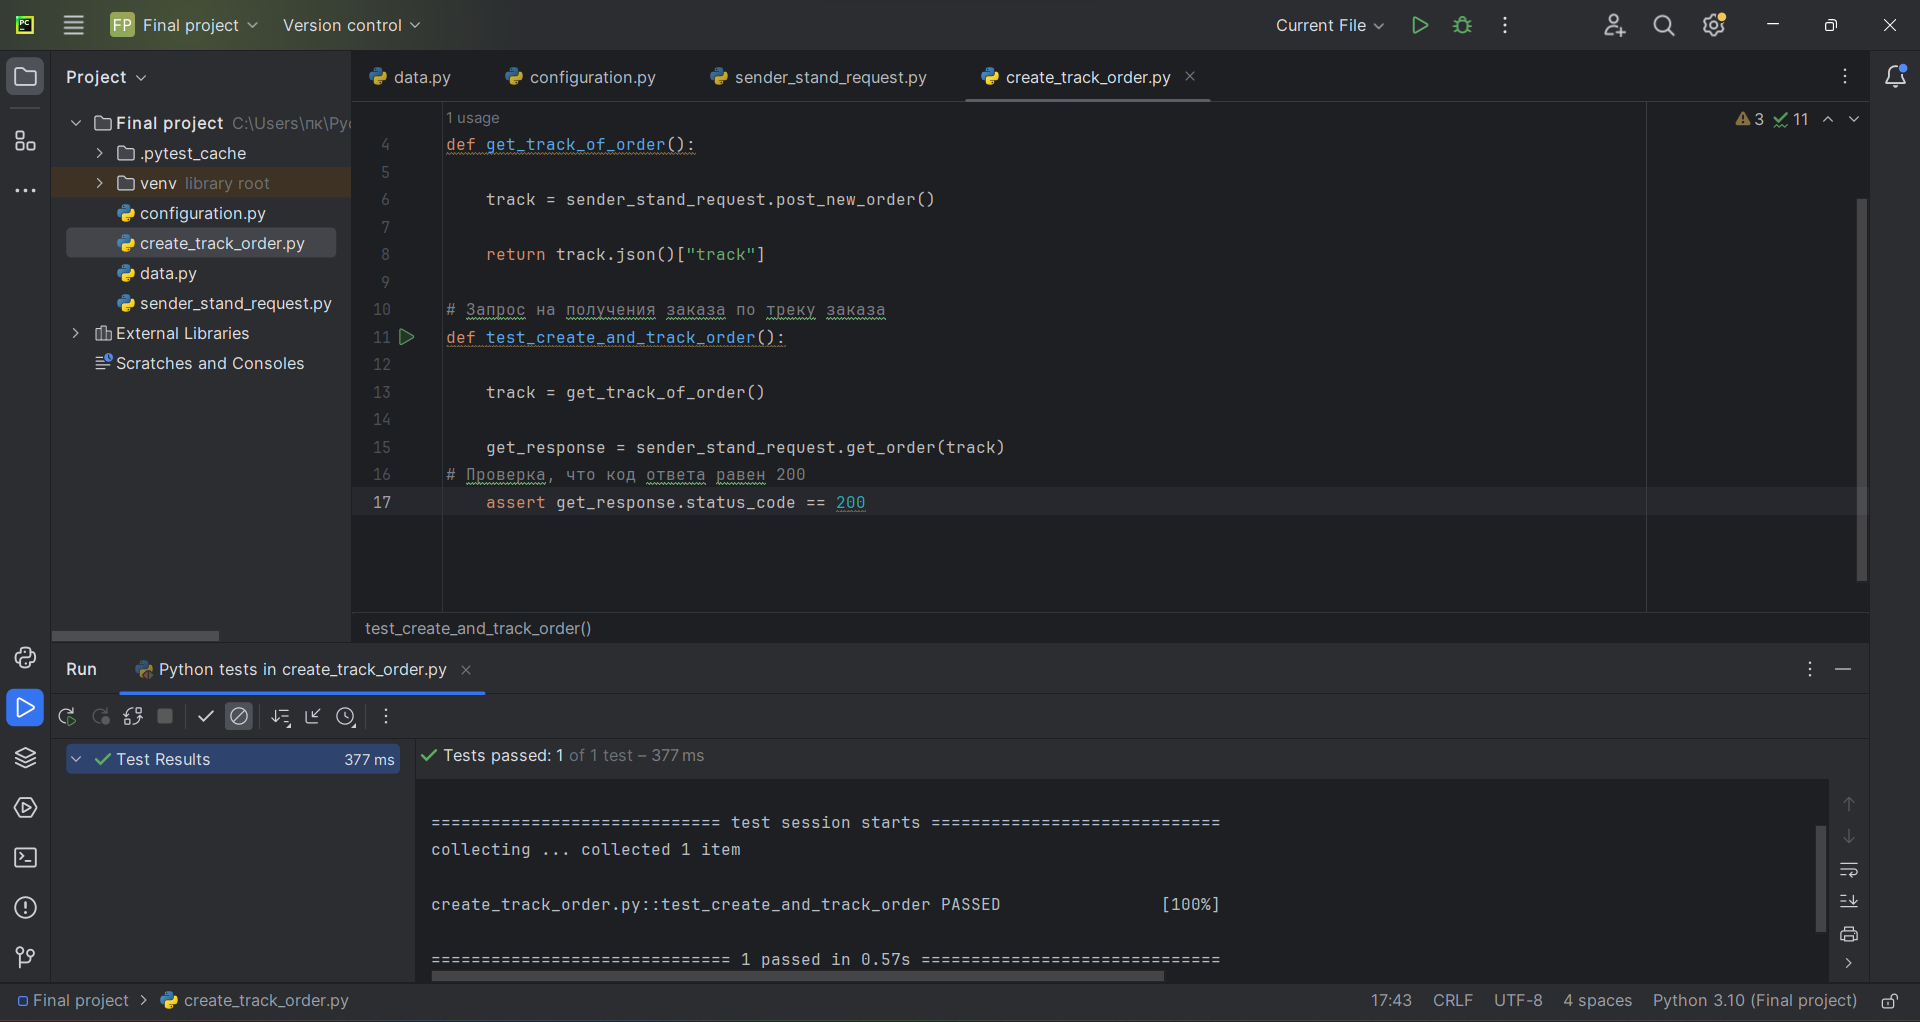
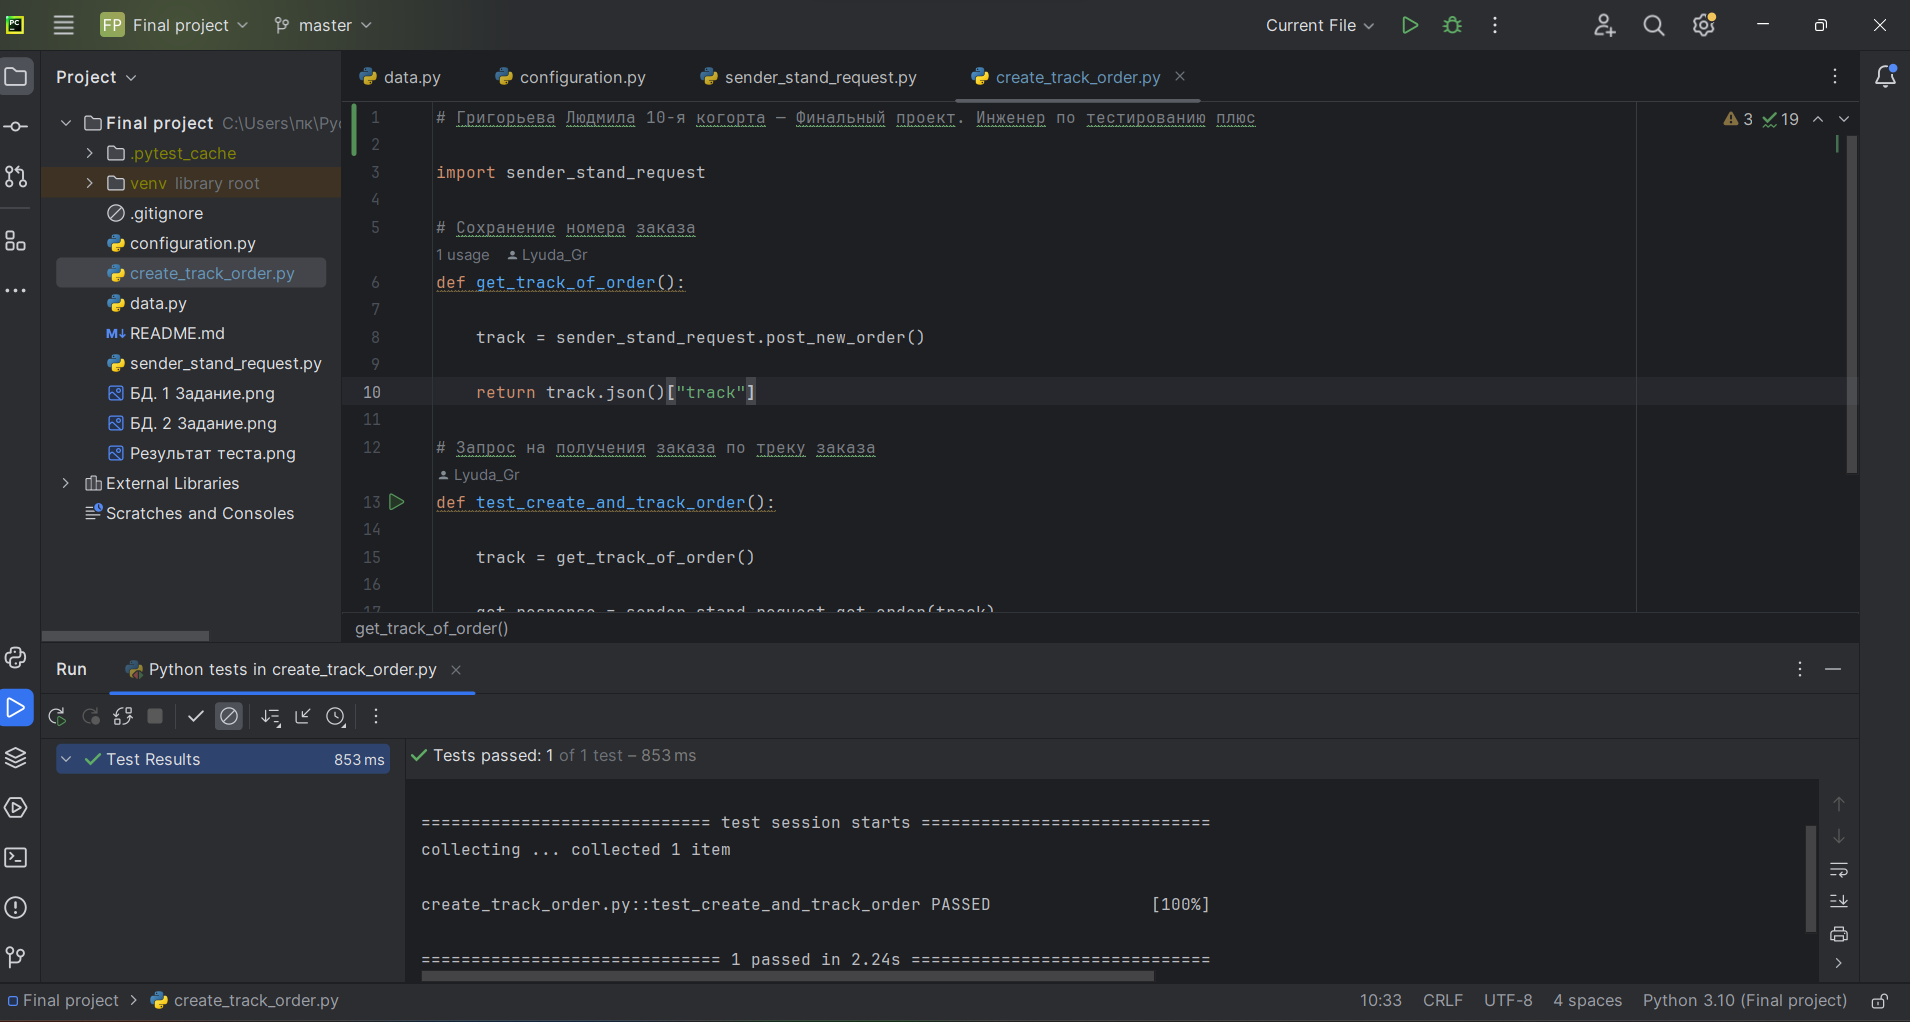
My commit

diff --git a/create_track_order.py b/create_track_order.py
@@ -1,3 +1,5 @@
+# Григорьева Людмила 10-я когорта — Финальный проект. Инженер по тестированию плюс
+
 import sender_stand_request
 
 # Сохранение номера заказа
@@ -7,7 +9,7 @@ def get_track_of_order():
 
     return track.json()["track"]
 
-# Запрос на получения заказа по треку заказа
+# Запрос на получение заказа по треку заказа
 def test_create_and_track_order():
 
     track = get_track_of_order()

diff --git a/configuration.py b/configuration.py
@@ -2,5 +2,5 @@
 URL_SERVICE = "https://59643f91-3200-42ed-b3be-b091685c08e2.serverhub.praktikum-services.ru"
 # Ручка к созданию заказа
 CREATE_TRACK_ORDER = "/api/v1/orders"
-# Ручка к получение номера заказа
+# Ручка к получению номера заказа
 GET_ORDER = "/api/v1/orders/track"

diff --git a/README.md b/README.md
@@ -1,4 +1,5 @@
-# Тесты на проверку параметра name в поле запроса на создание набора с продуктами для авторизованного пользователя в Яндекс.Прилавке с помощью API Яндекс.Прилавок.
+Тесты на проверку создания заказа клиентом и нахождение заказ по его номеру с помощью API Яндекс.Самокат.
+
 - Для запуска тестов должны быть установлены пакеты pytest и requests
 - Запуск всех тестов выполянется командой pytest
 
